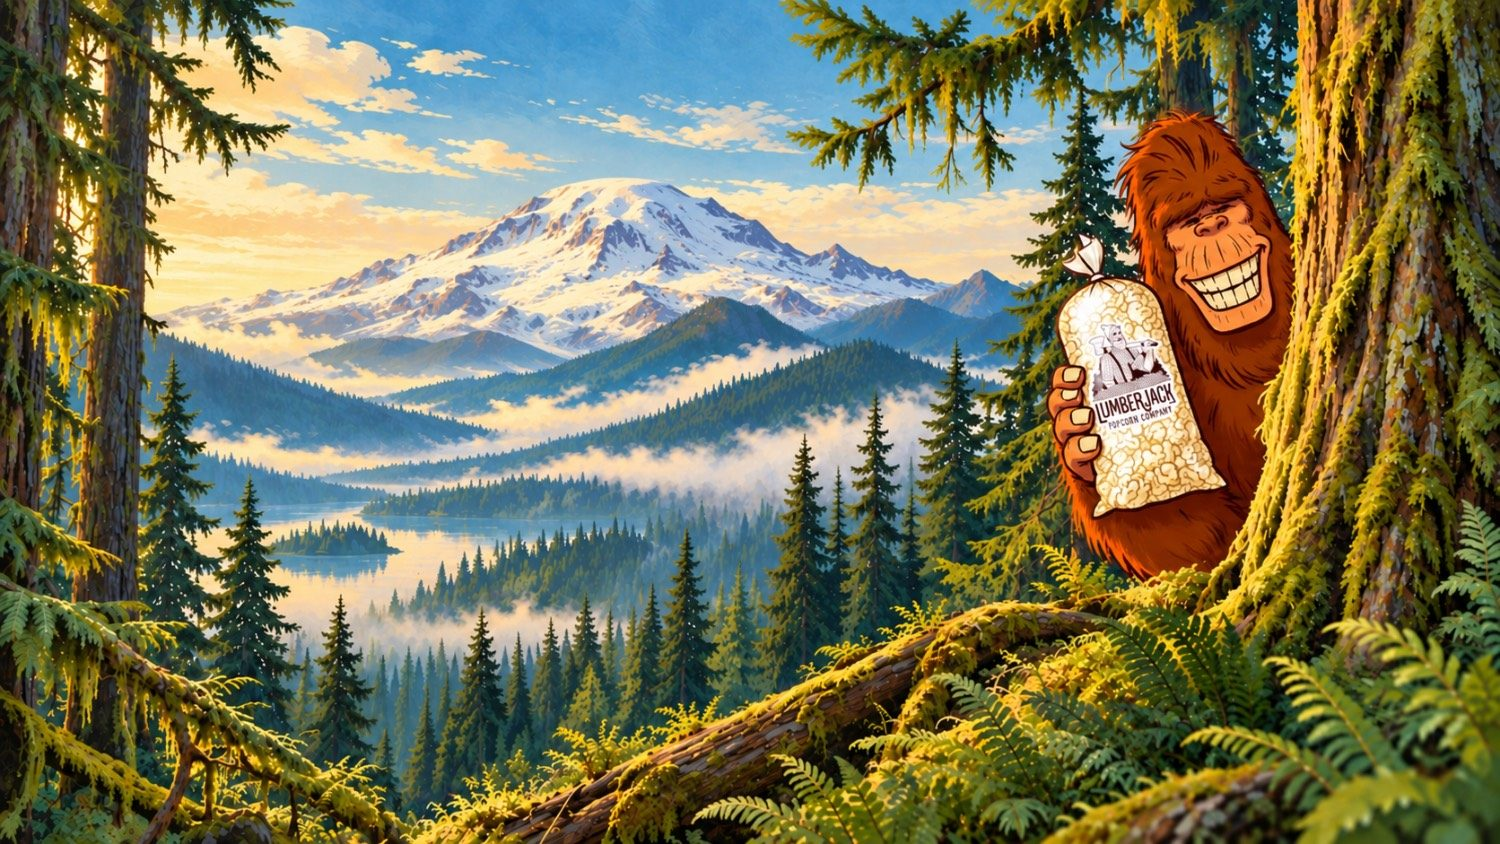
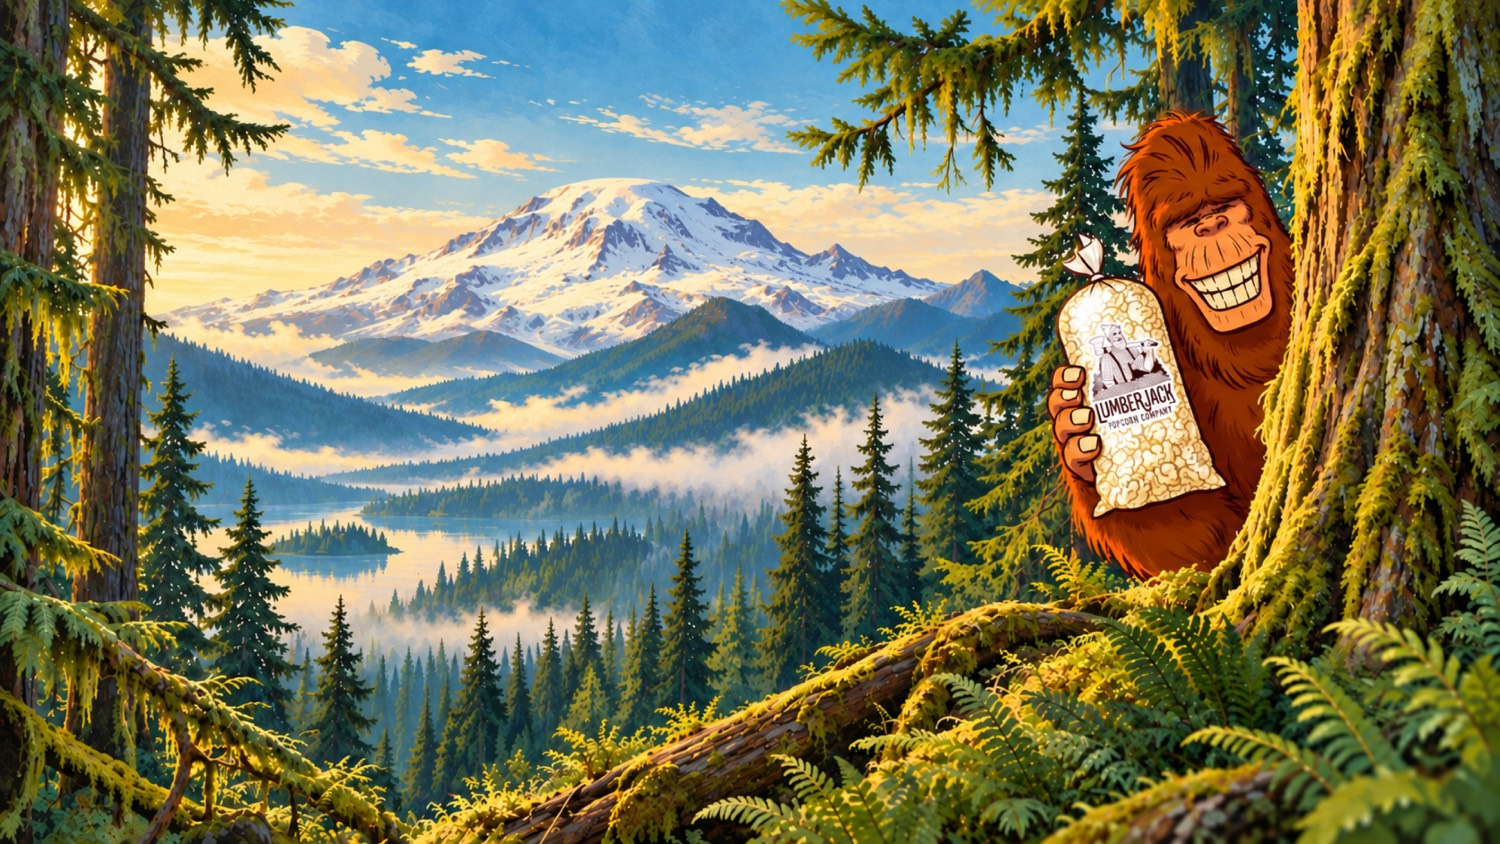
Lumberjack Popcorn: show the hero painting without zooming in
Size the hero to the painting's 16:9 shape so it isn't enlarged and
cropped, show the whole painting full width on phones, re-save it at
higher quality from the new copy, and tighten the hero logo, headline,
and spacing.

Claude-Session: https://claude.ai/code/session_016UGNjXxhxMTUKc9dmbAU6y

diff --git a/lumberjackpopcorn/styles.css b/lumberjackpopcorn/styles.css
@@ -98,7 +98,7 @@ img { max-width: 100%; }
 }
 .brand:hover { color: var(--white); }
 .brand .co-short { display: none; }
-.hero-logo { display: block; width: 180px; height: auto; margin-bottom: 20px; filter: drop-shadow(0 6px 14px rgba(0,0,0,.3)); }
+.hero-logo { display: block; width: 150px; height: auto; margin-bottom: 20px; filter: drop-shadow(0 6px 14px rgba(0,0,0,.3)); }
 .footer-logo { display: block; width: 130px; height: auto; margin-bottom: 12px; }
 .thanks-logo { width: 160px; height: auto; }
 .brand em, .brand-foot em { font-style: normal; color: var(--olive); }
@@ -113,11 +113,15 @@ img { max-width: 100%; }
 
 /* Painted PNW background: Mt. Rainier with Bigfoot peeking from the trees */
 .forest-bg {
-  background: var(--forest) url("images/hero-bigfoot.jpg") right center / cover no-repeat;
+  background: var(--forest) url("images/hero-bigfoot.jpg") right bottom / cover no-repeat;
   color: var(--white);
 }
+/* Keep the hero close to the painting's own 16:9 shape so it isn't enlarged and cropped. */
+.hero, .page-hero { min-height: calc(100vw * 844 / 1500); }
 @media (max-width: 860px) {
-  .forest-bg { background: var(--forest) url("images/hero-bigfoot-sm.jpg") 78% bottom / auto 340px no-repeat; }
+  /* Phones: show the whole painting, full width, below the text. */
+  .forest-bg { background-size: 100% auto; background-position: center bottom; }
+  .hero, .page-hero { min-height: 0; }
   .thanks-page.forest-bg { background-size: cover; background-position: 78% center; }
 }
 
@@ -128,19 +132,19 @@ img { max-width: 100%; }
   background: linear-gradient(90deg, rgba(16,40,22,.92) 0%, rgba(16,40,22,.78) 38%, rgba(16,40,22,.25) 62%, rgba(16,40,22,0) 75%);
 }
 .hero-inner {
-  position: relative; padding: 148px 0 200px;
-  display: grid; grid-template-columns: minmax(0, 600px); gap: 48px; align-items: center;
+  position: relative; padding: 112px 0 90px;
+  display: grid; grid-template-columns: minmax(0, 640px); gap: 48px; align-items: center;
 }
 .eyebrow {
   text-transform: uppercase; letter-spacing: .12em; font-weight: 700;
   color: var(--olive); margin: 0 0 12px; font-size: .95rem;
 }
-.hero h1, .page-hero h1 { font-size: clamp(2.4rem, 6vw, 4.2rem); margin: 0 0 20px; }
+.hero h1, .page-hero h1 { font-size: clamp(2.2rem, 4.6vw, 3.4rem); margin: 0 0 20px; }
 .lead { font-size: 1.25rem; max-width: 580px; margin: 0 0 32px; }
 .lead a { color: var(--olive); }
 .hero-actions { display: flex; flex-wrap: wrap; gap: 14px; }
-.page-hero .container { position: relative; padding: 140px 0 170px; }
-@media (max-width: 860px) { .page-hero .container { padding-bottom: 380px; } }
+.page-hero .container { position: relative; padding: 112px 0 90px; }
+@media (max-width: 860px) { .page-hero .container { padding-bottom: calc(100vw * 844 / 1500 + 8px); } }
 .page-hero .lead { margin-bottom: 0; }
 .page-hero h1 { max-width: 640px; }
 
@@ -178,7 +182,7 @@ img { max-width: 100%; }
 /* The painting fades into the white page below it instead of ending in a hard edge. */
 .hero-inner, .page-hero .container { z-index: 1; }
 .hero::after, .page-hero::after {
-  content: ""; position: absolute; left: 0; right: 0; bottom: 0; height: 170px; pointer-events: none;
+  content: ""; position: absolute; left: 0; right: 0; bottom: 0; height: 120px; pointer-events: none;
   background: linear-gradient(180deg, rgba(255,255,255,0) 0%, rgba(255,255,255,.75) 60%, #fff 100%);
 }
 
@@ -390,9 +394,9 @@ img { max-width: 100%; }
   .nav-links a { padding: 12px 0; }
   .nav-links .btn { margin-top: 8px; }
 
-  .hero::before, .page-hero::before { background: linear-gradient(180deg, var(--forest) 0%, var(--forest) calc(100% - 340px), rgba(24,58,30,0) calc(100% - 250px)); }
-  .hero::after, .page-hero::after { height: 110px; }
-  .hero-inner { padding: 124px 0 400px; grid-template-columns: 1fr; gap: 36px; }
+  .hero::before, .page-hero::before { background: linear-gradient(180deg, var(--forest) 0%, var(--forest) calc(100% - 56.27vw - 20px), rgba(24,58,30,0) calc(100% - 56.27vw + 50px)); }
+  .hero::after, .page-hero::after { height: 50px; }
+  .hero-inner { padding: 124px 0 calc(100vw * 844 / 1500 + 8px); grid-template-columns: 1fr; gap: 36px; }
   .section { padding: 64px 0; }
   .steps { grid-template-columns: 1fr; gap: 24px; }
   .flavors-split, .split { grid-template-columns: 1fr; gap: 32px; }
